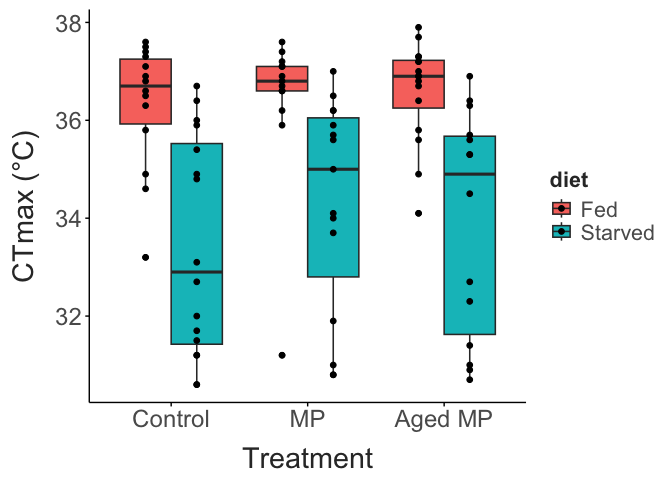
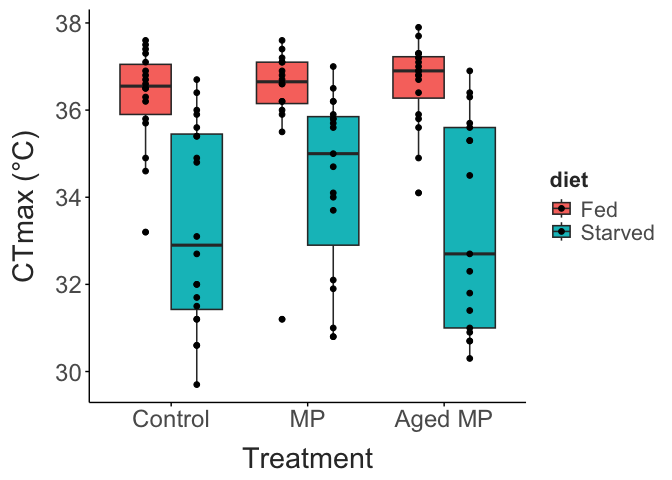
New survival data

diff --git a/Output/Reports/report.md b/Output/Reports/report.md
@@ -1,6 +1,6 @@
 TITLE HERE
 ================
-2026-10-29
+2026-11-05
 
 - [Mortality Data](#mortality-data)
 - [Thermal Limit Data](#thermal-limit-data)
@@ -39,36 +39,36 @@ summary(model)
 ##    Data: surv_data
 ## 
 ##      AIC      BIC   logLik deviance df.resid 
-##    178.6    193.6    -81.3    162.6       40 
+##    228.7    245.5   -106.4    212.7       52 
 ## 
 ## Scaled residuals: 
 ##      Min       1Q   Median       3Q      Max 
-## -1.69713 -0.52457  0.07433  0.36196  1.82047 
+## -2.05771 -0.58461  0.03687  0.55052  2.05460 
 ## 
 ## Random effects:
 ##  Groups                Name        Variance Std.Dev.
-##  treatment_rep:exp_rep (Intercept) 0.1059   0.3254  
-##  exp_rep               (Intercept) 0.5451   0.7383  
-## Number of obs: 48, groups:  treatment_rep:exp_rep, 8; exp_rep, 4
+##  treatment_rep:exp_rep (Intercept) 0.05645  0.2376  
+##  exp_rep               (Intercept) 0.40575  0.6370  
+## Number of obs: 60, groups:  treatment_rep:exp_rep, 10; exp_rep, 5
 ## 
 ## Fixed effects:
 ##                                 Estimate Std. Error z value Pr(>|z|)    
-## (Intercept)                      -1.6992     0.4999  -3.399 0.000676 ***
-## MP_treatmentMP                    1.2557     0.4105   3.059 0.002223 ** 
-## MP_treatmentAged MP               0.6524     0.4108   1.588 0.112270    
-## dietStarved                       2.2713     0.4156   5.465 4.64e-08 ***
-## MP_treatmentMP:dietStarved       -1.4714     0.5445  -2.702 0.006886 ** 
-## MP_treatmentAged MP:dietStarved  -0.7351     0.5416  -1.357 0.174725    
+## (Intercept)                      -1.5421     0.3988  -3.867  0.00011 ***
+## MP_treatmentMP                    1.0243     0.3527   2.905  0.00368 ** 
+## MP_treatmentAged MP               0.6724     0.3519   1.911  0.05600 .  
+## dietStarved                       1.9602     0.3526   5.559 2.72e-08 ***
+## MP_treatmentMP:dietStarved       -1.0387     0.4699  -2.210  0.02708 *  
+## MP_treatmentAged MP:dietStarved  -0.6455     0.4677  -1.380  0.16747    
 ## ---
 ## Signif. codes:  0 '***' 0.001 '**' 0.01 '*' 0.05 '.' 0.1 ' ' 1
 ## 
 ## Correlation of Fixed Effects:
 ##             (Intr) MP_tMP MP_tAMP dtStrv MP_MP:
-## MP_trtmntMP -0.485                             
-## MP_trtmnAMP -0.476  0.579                      
-## dietStarved -0.492  0.594  0.576               
-## MP_trtmMP:S  0.367 -0.756 -0.438  -0.749       
-## MP_trtAMP:S  0.361 -0.441 -0.760  -0.739  0.563
+## MP_trtmntMP -0.510                             
+## MP_trtmnAMP -0.506  0.572                      
+## dietStarved -0.519  0.583  0.575               
+## MP_trtmMP:S  0.382 -0.751 -0.430  -0.740       
+## MP_trtAMP:S  0.380 -0.431 -0.753  -0.737  0.553
 
 
 # Perform omnibus test or pairwise comparisons across groups
@@ -78,10 +78,10 @@ car::Anova(model, type = "III") # Likelihood ratio or Wald tests
 ## 
 ## Response: cbind(num_dead, total - num_dead)
 ##                     Chisq Df Pr(>Chisq)    
-## (Intercept)       11.5547  1  0.0006758 ***
-## MP_treatment       9.4066  2  0.0090652 ** 
-## diet              29.8629  1  4.637e-08 ***
-## MP_treatment:diet  7.3425  2  0.0254447 *  
+## (Intercept)       14.9507  1  0.0001104 ***
+## MP_treatment       8.5289  2  0.0140598 *  
+## diet              30.8986  1  2.719e-08 ***
+## MP_treatment:diet  4.9217  2  0.0853624 .  
 ## ---
 ## Signif. codes:  0 '***' 0.001 '**' 0.01 '*' 0.05 '.' 0.1 ' ' 1
 
@@ -127,10 +127,10 @@ car::Anova(ctmax.model, type = "III")
 ## 
 ## Response: ctmax_c
 ##                       Chisq Df Pr(>Chisq)    
-## (Intercept)       4467.7781  1  < 2.2e-16 ***
-## MP_treatment         0.3186  2     0.8527    
-## diet                22.9024  1  1.704e-06 ***
-## MP_treatment:diet    0.8838  2     0.6428    
+## (Intercept)       6211.8752  1  < 2.2e-16 ***
+## MP_treatment         0.5835  2      0.747    
+## diet                29.7723  1  4.859e-08 ***
+## MP_treatment:diet    2.9838  2      0.225    
 ## ---
 ## Signif. codes:  0 '***' 0.001 '**' 0.01 '*' 0.05 '.' 0.1 ' ' 1
 ```
